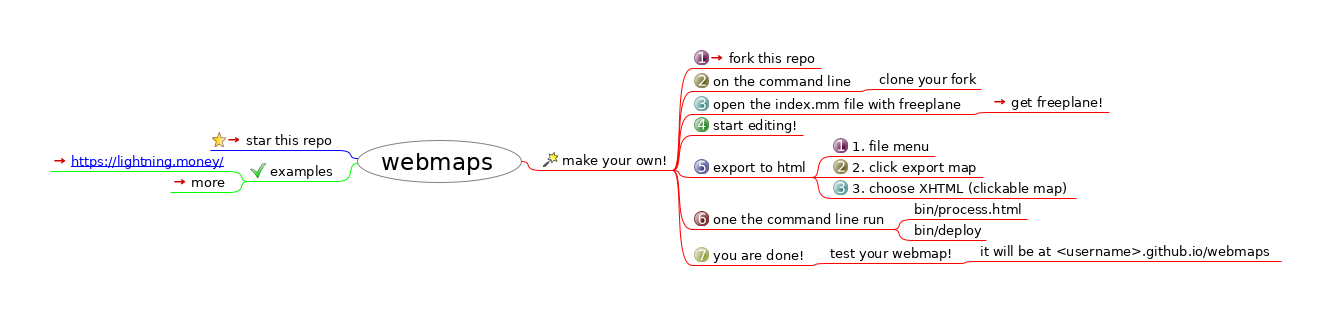
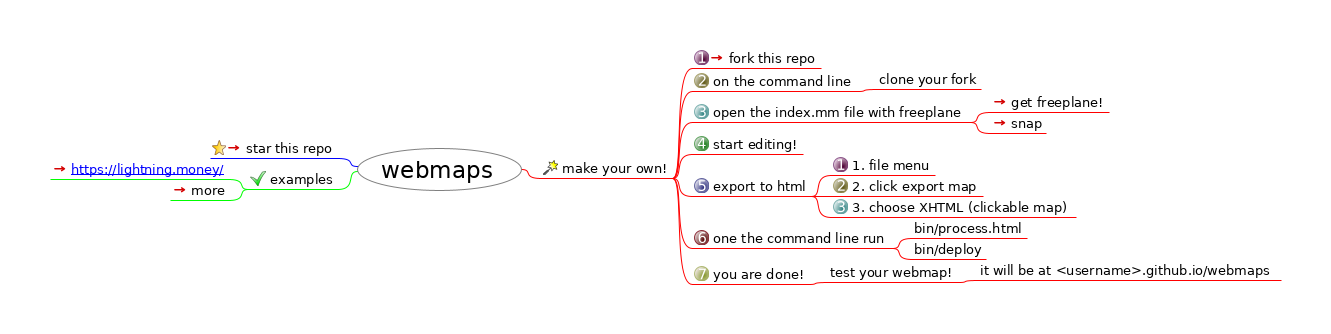
DEFAULT_MESSAGE

Changed region(s): [[0.0308, 0.1429, 0.9549, 0.8571], [0.308, 0.4286, 0.3696, 0.4571]]

diff --git a/index.html b/index.html
@@ -23,31 +23,32 @@
                    };
                };
           
-          --></script></head><body><h1>webmaps</h1><div style="width:96%;  padding:2%;  margin-bottom:10px;  border: 0px;  text-align:center;  vertical-align:center;"><img src="index.html_files/image.png" style="margin-bottom:10px; &#9;border: 0px; &#9;text-align:center; &#9;vertical-align:center;" alt="Imagemap" usemap="#fm_imagemap" /></div><map name="fm_imagemap" id="fm_imagemap"><area shape="rect" href="#FMID_110073400FM" alt="webmaps" title="webmaps" coords="357,140,522,183" />
-<area shape="rect" href="#FMID_1389208206FM" alt="make your own!" title="make your own!" coords="541,152,673,170" />
+          --></script></head><body><h1>webmaps</h1><div style="width:96%;  padding:2%;  margin-bottom:10px;  border: 0px;  text-align:center;  vertical-align:center;"><img src="index.html_files/image.png" style="margin-bottom:10px; &#9;border: 0px; &#9;text-align:center; &#9;vertical-align:center;" alt="Imagemap" usemap="#fm_imagemap" /></div><map name="fm_imagemap" id="fm_imagemap"><area shape="rect" href="#FMID_110073400FM" alt="webmaps" title="webmaps" coords="357,148,522,191" />
+<area shape="rect" href="#FMID_1389208206FM" alt="make your own!" title="make your own!" coords="541,160,673,178" />
 <area shape="rect" href="https://github.com/solidpayorg/webmaps/" alt="fork this repo" title="fork this repo" coords="692,50,821,68" />
 <area shape="rect" href="#FMID_1188995541FM" alt="on the command line" title="on the command line" coords="692,73,858,91" />
 <area shape="rect" href="#FMID_653799488FM" alt="clone your fork" title="clone your fork" coords="877,71,981,89" />
-<area shape="rect" href="#FMID_1013629200FM" alt="open the index.mm file with freeplane" title="open the index.mm file with freeplane" coords="692,96,971,114" />
+<area shape="rect" href="#FMID_1013629200FM" alt="open the index.mm file with freeplane" title="open the index.mm file with freeplane" coords="692,104,971,122" />
 <area shape="rect" href="https://www.freeplane.org/wiki/index.php/Home" alt="get freeplane!" title="get freeplane!" coords="990,94,1109,112" />
-<area shape="rect" href="#FMID_1410176299FM" alt="start editing!" title="start editing!" coords="692,117,803,135" />
-<area shape="rect" href="#FMID_278465196FM" alt="export to html" title="export to html" coords="692,159,812,177" />
-<area shape="rect" href="#FMID_347519982FM" alt="1. file menu" title="1. file menu" coords="831,138,935,156" />
-<area shape="rect" href="#FMID_1364431254FM" alt="2. click export map" title="2. click export map" coords="831,159,983,177" />
-<area shape="rect" href="#FMID_65834416FM" alt="3. choose XHTML (clickable map)" title="3. choose XHTML (clickable map)" coords="831,180,1076,198" />
-<area shape="rect" href="#FMID_668125997FM" alt="one the command line run" title="one the command line run" coords="692,211,893,229" />
-<area shape="rect" href="#FMID_417353516FM" alt="bin/process.html" title="bin/process.html" coords="912,201,1027,219" />
-<area shape="rect" href="#FMID_1316516546FM" alt="bin/deploy" title="bin/deploy" coords="912,222,986,240" />
-<area shape="rect" href="#FMID_1463249056FM" alt="you are done!" title="you are done!" coords="692,247,809,265" />
-<area shape="rect" href="#FMID_1342426050FM" alt="test your webmap!" title="test your webmap!" coords="828,245,959,263" />
-<area shape="rect" href="#FMID_791049591FM" alt="it will be at &lt;username&gt;.github.io/webma ..." title="it will be at &lt;username&gt;.github.io/webma ..." coords="978,243,1281,261" />
-<area shape="rect" href="https://github.com/solidpayorg/webmaps/" alt="star this repo" title="star this repo" coords="210,132,338,150" />
-<area shape="rect" href="#FMID_428021122FM" alt="examples" title="examples" coords="248,163,338,181" />
-<area shape="rect" href="https://lightning.money/" alt="https://lightning.money/" title="https://lightning.money/" coords="50,153,229,171" />
-<area shape="rect" href="examples/index.html" alt="more" title="more" coords="170,174,229,192" />
+<area shape="rect" href="https://snapcraft.io/freeplane-mindmapping" alt="snap" title="snap" coords="990,115,1046,133" />
+<area shape="rect" href="#FMID_1410176299FM" alt="start editing!" title="start editing!" coords="692,136,803,154" />
+<area shape="rect" href="#FMID_278465196FM" alt="export to html" title="export to html" coords="692,178,812,196" />
+<area shape="rect" href="#FMID_347519982FM" alt="1. file menu" title="1. file menu" coords="831,157,935,175" />
+<area shape="rect" href="#FMID_1364431254FM" alt="2. click export map" title="2. click export map" coords="831,178,983,196" />
+<area shape="rect" href="#FMID_65834416FM" alt="3. choose XHTML (clickable map)" title="3. choose XHTML (clickable map)" coords="831,199,1076,217" />
+<area shape="rect" href="#FMID_668125997FM" alt="one the command line run" title="one the command line run" coords="692,230,893,248" />
+<area shape="rect" href="#FMID_417353516FM" alt="bin/process.html" title="bin/process.html" coords="912,220,1027,238" />
+<area shape="rect" href="#FMID_1316516546FM" alt="bin/deploy" title="bin/deploy" coords="912,241,986,259" />
+<area shape="rect" href="#FMID_1463249056FM" alt="you are done!" title="you are done!" coords="692,266,809,284" />
+<area shape="rect" href="#FMID_1342426050FM" alt="test your webmap!" title="test your webmap!" coords="828,264,959,282" />
+<area shape="rect" href="#FMID_791049591FM" alt="it will be at &lt;username&gt;.github.io/webma ..." title="it will be at &lt;username&gt;.github.io/webma ..." coords="978,262,1281,280" />
+<area shape="rect" href="https://github.com/solidpayorg/webmaps/" alt="star this repo" title="star this repo" coords="210,140,338,158" />
+<area shape="rect" href="#FMID_428021122FM" alt="examples" title="examples" coords="248,171,338,189" />
+<area shape="rect" href="https://lightning.money/" alt="https://lightning.money/" title="https://lightning.money/" coords="50,161,229,179" />
+<area shape="rect" href="examples/index.html" alt="more" title="more" coords="170,182,229,200" />
 </map>
 
-<div class="node"><img src="index.html_files/hide.png" class="hideshow" alt="hide" onClick="toggle(&quot;N65543&quot;)" id="imgN65543" /><a id="FMID_110073400FM" /><div class="nodecontent" style="color:#000000;font-size:150%;">webmaps</div><div class="content" id="N65543"><div class="node"><img src="index.html_files/hide.png" class="hideshow" alt="hide" onClick="toggle(&quot;N66439&quot;)" id="imgN66439" /><img src="index.html_files/icons/wizard.svg" alt="wizard" /> <a id="FMID_1389208206FM" /><div class="nodecontent" style="color:#000000;font-size:83%;">make your own!</div><div class="content" id="N66439"><div class="node"><img src="index.html_files/leaf.png" class="hideshow" alt="leaf" /><img src="index.html_files/icons/full-1.svg" alt="full-1" /> <a id="FMID_1738668143FM" /><div class="nodecontent" style="color:#000000;font-size:83%;"><a href="https://github.com/solidpayorg/webmaps/">fork this repo</a> <a href="https://github.com/solidpayorg/webmaps/"><img src="index.html_files/ilink.png" alt="User Link" style="border-width:0" /></a></div></div><div class="node"><img src="index.html_files/hide.png" class="hideshow" alt="hide" onClick="toggle(&quot;N66522&quot;)" id="imgN66522" /><img src="index.html_files/icons/full-2.svg" alt="full-2" /> <a id="FMID_1188995541FM" /><div class="nodecontent" style="color:#000000;font-size:83%;">on the command line</div><div class="content" id="N66522"><div class="node"><img src="index.html_files/leaf.png" class="hideshow" alt="leaf" /><a id="FMID_653799488FM" /><div class="nodecontent" style="color:#000000;font-size:83%;">clone your fork</div></div></div></div><div class="node"><img src="index.html_files/hide.png" class="hideshow" alt="hide" onClick="toggle(&quot;N66599&quot;)" id="imgN66599" /><img src="index.html_files/icons/full-3.svg" alt="full-3" /> <a id="FMID_1013629200FM" /><div class="nodecontent" style="color:#000000;font-size:83%;">open the index.mm file with freeplane</div><div class="content" id="N66599"><div class="node"><img src="index.html_files/leaf.png" class="hideshow" alt="leaf" /><a id="FMID_1320208052FM" /><div class="nodecontent" style="color:#000000;font-size:83%;"><a href="https://www.freeplane.org/wiki/index.php/Home">get freeplane!</a> <a href="https://www.freeplane.org/wiki/index.php/Home"><img src="index.html_files/ilink.png" alt="User Link" style="border-width:0" /></a></div></div></div></div><div class="node"><img src="index.html_files/leaf.png" class="hideshow" alt="leaf" /><img src="index.html_files/icons/full-4.svg" alt="full-4" /> <a id="FMID_1410176299FM" /><div class="nodecontent" style="color:#000000;font-size:83%;">start editing!</div></div><div class="node"><img src="index.html_files/hide.png" class="hideshow" alt="hide" onClick="toggle(&quot;N66718&quot;)" id="imgN66718" /><img src="index.html_files/icons/full-5.svg" alt="full-5" /> <a id="FMID_278465196FM" /><div class="nodecontent" style="color:#000000;font-size:83%;">export to html</div><div class="content" id="N66718"><div class="node"><img src="index.html_files/leaf.png" class="hideshow" alt="leaf" /><img src="index.html_files/icons/full-1.svg" alt="full-1" /> <a id="FMID_347519982FM" /><div class="nodecontent" style="color:#000000;font-size:83%;">1. file menu</div></div><div class="node"><img src="index.html_files/leaf.png" class="hideshow" alt="leaf" /><img src="index.html_files/icons/full-2.svg" alt="full-2" /> <a id="FMID_1364431254FM" /><div class="nodecontent" style="color:#000000;font-size:83%;">2. click export map</div></div><div class="node"><img src="index.html_files/leaf.png" class="hideshow" alt="leaf" /><img src="index.html_files/icons/full-3.svg" alt="full-3" /> <a id="FMID_65834416FM" /><div class="nodecontent" style="color:#000000;font-size:83%;">3. choose XHTML (clickable map)</div></div></div></div><div class="node"><img src="index.html_files/hide.png" class="hideshow" alt="hide" onClick="toggle(&quot;N66882&quot;)" id="imgN66882" /><img src="index.html_files/icons/full-6.svg" alt="full-6" /> <a id="FMID_668125997FM" /><div class="nodecontent" style="color:#000000;font-size:83%;">one the command line run</div><div class="content" id="N66882"><div class="node"><img src="index.html_files/leaf.png" class="hideshow" alt="leaf" /><a id="FMID_417353516FM" /><div class="nodecontent" style="color:#000000;font-size:83%;">bin/process.html</div></div><div class="node"><img src="index.html_files/leaf.png" class="hideshow" alt="leaf" /><a id="FMID_1316516546FM" /><div class="nodecontent" style="color:#000000;font-size:83%;">bin/deploy</div></div></div></div><div class="node"><img src="index.html_files/hide.png" class="hideshow" alt="hide" onClick="toggle(&quot;N66995&quot;)" id="imgN66995" /><img src="index.html_files/icons/full-7.svg" alt="full-7" /> <a id="FMID_1463249056FM" /><div class="nodecontent" style="color:#000000;font-size:83%;">you are done!</div><div class="content" id="N66995"><div class="node"><img src="index.html_files/hide.png" class="hideshow" alt="hide" onClick="toggle(&quot;N67035&quot;)" id="imgN67035" /><a id="FMID_1342426050FM" /><div class="nodecontent" style="color:#000000;font-size:83%;">test your webmap!</div><div class="content" id="N67035"><div class="node"><img src="index.html_files/leaf.png" class="hideshow" alt="leaf" /><a id="FMID_791049591FM" /><div class="nodecontent" style="color:#000000;font-size:83%;">it will be at &lt;username&gt;.github.io/webmaps</div></div></div></div></div></div></div></div><div class="node"><img src="index.html_files/leaf.png" class="hideshow" alt="leaf" /><img src="index.html_files/icons/bookmark.svg" alt="bookmark" /> <a id="FMID_634574866FM" /><div class="nodecontent" style="color:#000000;font-size:83%;"><a href="https://github.com/solidpayorg/webmaps/">star this repo</a> <a href="https://github.com/solidpayorg/webmaps/"><img src="index.html_files/ilink.png" alt="User Link" style="border-width:0" /></a></div></div><div class="node"><img src="index.html_files/hide.png" class="hideshow" alt="hide" onClick="toggle(&quot;N67152&quot;)" id="imgN67152" /><img src="index.html_files/icons/button_ok.svg" alt="button_ok" /> <a id="FMID_428021122FM" /><div class="nodecontent" style="color:#000000;font-size:83%;">examples</div><div class="content" id="N67152"><div class="node"><img src="index.html_files/leaf.png" class="hideshow" alt="leaf" /><a id="FMID_1055482545FM" /><div class="nodecontent" style="color:#000000;font-size:83%;"><a href="https://lightning.money/">
+<div class="node"><img src="index.html_files/hide.png" class="hideshow" alt="hide" onClick="toggle(&quot;N65543&quot;)" id="imgN65543" /><a id="FMID_110073400FM" /><div class="nodecontent" style="color:#000000;font-size:150%;">webmaps</div><div class="content" id="N65543"><div class="node"><img src="index.html_files/hide.png" class="hideshow" alt="hide" onClick="toggle(&quot;N66439&quot;)" id="imgN66439" /><img src="index.html_files/icons/wizard.svg" alt="wizard" /> <a id="FMID_1389208206FM" /><div class="nodecontent" style="color:#000000;font-size:83%;">make your own!</div><div class="content" id="N66439"><div class="node"><img src="index.html_files/leaf.png" class="hideshow" alt="leaf" /><img src="index.html_files/icons/full-1.svg" alt="full-1" /> <a id="FMID_1738668143FM" /><div class="nodecontent" style="color:#000000;font-size:83%;"><a href="https://github.com/solidpayorg/webmaps/">fork this repo</a> <a href="https://github.com/solidpayorg/webmaps/"><img src="index.html_files/ilink.png" alt="User Link" style="border-width:0" /></a></div></div><div class="node"><img src="index.html_files/hide.png" class="hideshow" alt="hide" onClick="toggle(&quot;N66522&quot;)" id="imgN66522" /><img src="index.html_files/icons/full-2.svg" alt="full-2" /> <a id="FMID_1188995541FM" /><div class="nodecontent" style="color:#000000;font-size:83%;">on the command line</div><div class="content" id="N66522"><div class="node"><img src="index.html_files/leaf.png" class="hideshow" alt="leaf" /><a id="FMID_653799488FM" /><div class="nodecontent" style="color:#000000;font-size:83%;">clone your fork</div></div></div></div><div class="node"><img src="index.html_files/hide.png" class="hideshow" alt="hide" onClick="toggle(&quot;N66599&quot;)" id="imgN66599" /><img src="index.html_files/icons/full-3.svg" alt="full-3" /> <a id="FMID_1013629200FM" /><div class="nodecontent" style="color:#000000;font-size:83%;">open the index.mm file with freeplane</div><div class="content" id="N66599"><div class="node"><img src="index.html_files/leaf.png" class="hideshow" alt="leaf" /><a id="FMID_1320208052FM" /><div class="nodecontent" style="color:#000000;font-size:83%;"><a href="https://www.freeplane.org/wiki/index.php/Home">get freeplane!</a> <a href="https://www.freeplane.org/wiki/index.php/Home"><img src="index.html_files/ilink.png" alt="User Link" style="border-width:0" /></a></div></div><div class="node"><img src="index.html_files/leaf.png" class="hideshow" alt="leaf" /><a id="FMID_783749861FM" /><div class="nodecontent" style="color:#000000;font-size:83%;"><a href="https://snapcraft.io/freeplane-mindmapping">snap</a> <a href="https://snapcraft.io/freeplane-mindmapping"><img src="index.html_files/ilink.png" alt="User Link" style="border-width:0" /></a></div></div></div></div><div class="node"><img src="index.html_files/leaf.png" class="hideshow" alt="leaf" /><img src="index.html_files/icons/full-4.svg" alt="full-4" /> <a id="FMID_1410176299FM" /><div class="nodecontent" style="color:#000000;font-size:83%;">start editing!</div></div><div class="node"><img src="index.html_files/hide.png" class="hideshow" alt="hide" onClick="toggle(&quot;N66755&quot;)" id="imgN66755" /><img src="index.html_files/icons/full-5.svg" alt="full-5" /> <a id="FMID_278465196FM" /><div class="nodecontent" style="color:#000000;font-size:83%;">export to html</div><div class="content" id="N66755"><div class="node"><img src="index.html_files/leaf.png" class="hideshow" alt="leaf" /><img src="index.html_files/icons/full-1.svg" alt="full-1" /> <a id="FMID_347519982FM" /><div class="nodecontent" style="color:#000000;font-size:83%;">1. file menu</div></div><div class="node"><img src="index.html_files/leaf.png" class="hideshow" alt="leaf" /><img src="index.html_files/icons/full-2.svg" alt="full-2" /> <a id="FMID_1364431254FM" /><div class="nodecontent" style="color:#000000;font-size:83%;">2. click export map</div></div><div class="node"><img src="index.html_files/leaf.png" class="hideshow" alt="leaf" /><img src="index.html_files/icons/full-3.svg" alt="full-3" /> <a id="FMID_65834416FM" /><div class="nodecontent" style="color:#000000;font-size:83%;">3. choose XHTML (clickable map)</div></div></div></div><div class="node"><img src="index.html_files/hide.png" class="hideshow" alt="hide" onClick="toggle(&quot;N66919&quot;)" id="imgN66919" /><img src="index.html_files/icons/full-6.svg" alt="full-6" /> <a id="FMID_668125997FM" /><div class="nodecontent" style="color:#000000;font-size:83%;">one the command line run</div><div class="content" id="N66919"><div class="node"><img src="index.html_files/leaf.png" class="hideshow" alt="leaf" /><a id="FMID_417353516FM" /><div class="nodecontent" style="color:#000000;font-size:83%;">bin/process.html</div></div><div class="node"><img src="index.html_files/leaf.png" class="hideshow" alt="leaf" /><a id="FMID_1316516546FM" /><div class="nodecontent" style="color:#000000;font-size:83%;">bin/deploy</div></div></div></div><div class="node"><img src="index.html_files/hide.png" class="hideshow" alt="hide" onClick="toggle(&quot;N67032&quot;)" id="imgN67032" /><img src="index.html_files/icons/full-7.svg" alt="full-7" /> <a id="FMID_1463249056FM" /><div class="nodecontent" style="color:#000000;font-size:83%;">you are done!</div><div class="content" id="N67032"><div class="node"><img src="index.html_files/hide.png" class="hideshow" alt="hide" onClick="toggle(&quot;N67072&quot;)" id="imgN67072" /><a id="FMID_1342426050FM" /><div class="nodecontent" style="color:#000000;font-size:83%;">test your webmap!</div><div class="content" id="N67072"><div class="node"><img src="index.html_files/leaf.png" class="hideshow" alt="leaf" /><a id="FMID_791049591FM" /><div class="nodecontent" style="color:#000000;font-size:83%;">it will be at &lt;username&gt;.github.io/webmaps</div></div></div></div></div></div></div></div><div class="node"><img src="index.html_files/leaf.png" class="hideshow" alt="leaf" /><img src="index.html_files/icons/bookmark.svg" alt="bookmark" /> <a id="FMID_634574866FM" /><div class="nodecontent" style="color:#000000;font-size:83%;"><a href="https://github.com/solidpayorg/webmaps/">star this repo</a> <a href="https://github.com/solidpayorg/webmaps/"><img src="index.html_files/ilink.png" alt="User Link" style="border-width:0" /></a></div></div><div class="node"><img src="index.html_files/hide.png" class="hideshow" alt="hide" onClick="toggle(&quot;N67189&quot;)" id="imgN67189" /><img src="index.html_files/icons/button_ok.svg" alt="button_ok" /> <a id="FMID_428021122FM" /><div class="nodecontent" style="color:#000000;font-size:83%;">examples</div><div class="content" id="N67189"><div class="node"><img src="index.html_files/leaf.png" class="hideshow" alt="leaf" /><a id="FMID_1055482545FM" /><div class="nodecontent" style="color:#000000;font-size:83%;"><a href="https://lightning.money/">
     <a http-equiv="content-type" content="text/html; charset=utf-8" href="https://lightning.money/">https://lightning.money/</a>
   </a> <a href="https://lightning.money/"><img src="index.html_files/ilink.png" alt="User Link" style="border-width:0" /></a></div></div><div class="node"><img src="index.html_files/leaf.png" class="hideshow" alt="leaf" /><a id="FMID_1185474668FM" /><div class="nodecontent" style="color:#000000;font-size:83%;"><a href="examples/index.html">more</a> <a href="examples/index.html"><img src="index.html_files/ilink.png" alt="User Link" style="border-width:0" /></a></div></div></div></div></div></div>
 </body></html>

diff --git a/index.mm b/index.mm
@@ -77,6 +77,7 @@
 <node TEXT="open the index.mm file with freeplane" ID="ID_1013629200" CREATED="1570293620249" MODIFIED="1570385439727">
 <icon BUILTIN="full-3"/>
 <node TEXT="get freeplane!" ID="ID_1320208052" CREATED="1570294588057" MODIFIED="1570294616385" LINK="https://www.freeplane.org/wiki/index.php/Home"/>
+<node TEXT="snap" ID="ID_783749861" CREATED="1570901355425" MODIFIED="1570901363157" LINK="https://snapcraft.io/freeplane-mindmapping"/>
 </node>
 <node TEXT="start editing!" ID="ID_1410176299" CREATED="1570294727092" MODIFIED="1570385444177">
 <icon BUILTIN="full-4"/>
